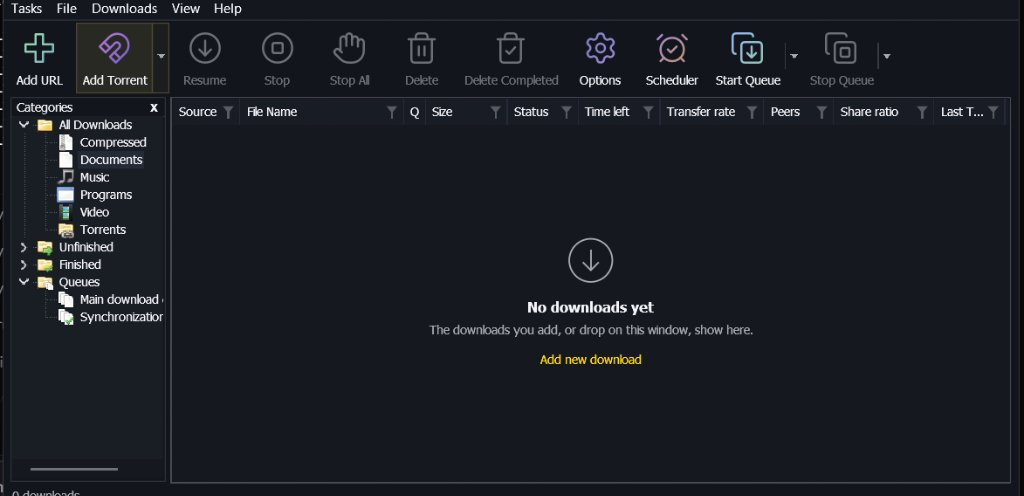
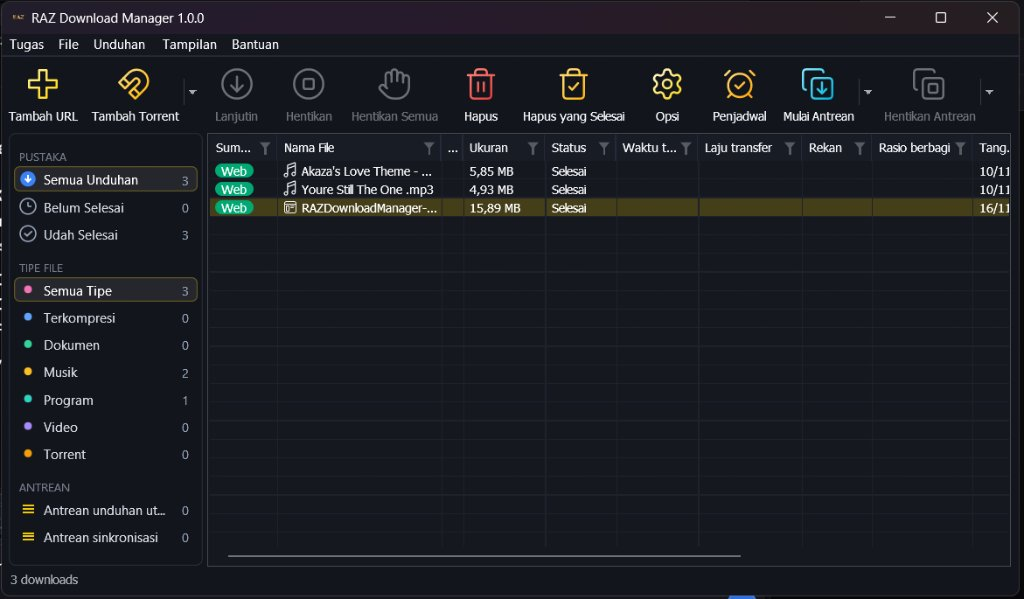
docs: integrate official v1.0.0 app screenshots into README and website tour

diff --git a/website/js/RAZMainLang.js b/website/js/RAZMainLang.js
@@ -72,16 +72,18 @@ const RAZMainLang = {
             'tour-title-1': 'Desain Klasik yang Lo Kenal,',
             'tour-title-2': 'Engine Modern yang Jauh Lebih Kencang',
             'tour-desc': 'Layout praktis dan familiar seperti download manager yang lo pake selama bertahun-tahun, tapi dengan teknologi modern dan fitur yang belum pernah ada sebelumnya.',
+            'tour-tab-main-title': 'Layar Utama Modern',
+            'tour-tab-main-desc': 'Daftar donlotan bersih, kategorisasi otomatis (Dokumen, Video, Program, Musik), dan toolbar emas responsif.',
             'tour-tab-progress-title': 'Setiap Koneksi Terpantau Live',
             'tour-tab-progress-desc': 'Pantau kecepatan dan bagian file yang terisi secara real-time. Resume aman dari crash tanpa takut file rusak.',
+            'tour-tab-completed-title': 'Dialog Donlotan Selesai',
+            'tour-tab-completed-desc': 'Notifikasi instan dengan opsi langsung buka file, buka folder tujuan, atau buka dengan aplikasi pilihan.',
+            'tour-tab-options-title': 'Konfigurasi & Opsi Lengkap',
+            'tour-tab-options-desc': 'Integrasi peramban otomatis, manajemen koneksi, proxy, hingga opsi perilaku sistem semau lo.',
             'tour-tab-torrents-title': 'BitTorrent Terintegrasi',
             'tour-tab-torrents-desc': 'Buka magnet link dan file .torrent langsung di daftar download tanpa butuh software torrent terpisah.',
             'tour-tab-video-title': 'Sniffer Video Web',
             'tour-tab-video-desc': 'Download video sampai kualitas 4K dari YouTube, Vimeo, dan ribuan situs streaming lainnya.',
-            'tour-tab-scheduler-title': 'Jadwal Antrean Otomatis',
-            'tour-tab-scheduler-desc': 'Atur antrean download mulai jam 2 pagi, berhenti jam 6 pagi, dan otomatis matikan komputer setelah selesai.',
-            'tour-tab-options-title': 'Pengaturan Lengkap',
-            'tour-tab-options-desc': 'Atur koneksi per donlotan, proxy, suara, folder tujuan, hingga integrasi browser semau lo.',
 
             // Core Features
             'feat-label': 'Fitur Unggulan',
@@ -254,16 +256,18 @@ const RAZMainLang = {
             'tour-title-1': 'The Classic Layout You Know,',
             'tour-title-2': 'A Modern Engine That Flies',
             'tour-desc': 'The familiar layout you have trusted for years, rebuilt with cutting-edge engineering and modern capabilities.',
+            'tour-tab-main-title': 'Sleek Main Dashboard',
+            'tour-tab-main-desc': 'Clean download manager list with automatic categorization (Documents, Videos, Programs, Music) and responsive toolbar.',
             'tour-tab-progress-title': 'Every Connection Drawn Live',
             'tour-tab-progress-desc': 'Watch each connection fill in real time with live speed indicators. Crash-safe resume prevents file corruption.',
+            'tour-tab-completed-title': 'Download Completed Dialog',
+            'tour-tab-completed-desc': 'Instant completion dialog with direct actions to open the file, open destination folder, or choose app.',
+            'tour-tab-options-title': 'Preferences & Settings',
+            'tour-tab-options-desc': 'Automatic browser integration, network connection tuning, proxies, and system behaviors semau lo.',
             'tour-tab-torrents-title': 'Built-in BitTorrent Client',
             'tour-tab-torrents-desc': 'Open magnet links and .torrent files directly without needing a separate torrent client.',
             'tour-tab-video-title': 'Web Video Sniffer',
             'tour-tab-video-desc': 'Grab up to 4K video from YouTube, Vimeo, and thousands of streaming websites.',
-            'tour-tab-scheduler-title': 'Smart Queue Scheduler',
-            'tour-tab-scheduler-desc': 'Automate downloads to start overnight at 2 AM, stop at 6 AM, and turn off your computer.',
-            'tour-tab-options-title': 'Full Control & Preferences',
-            'tour-tab-options-desc': 'Configure connections per download, network proxies, sounds, destination folders, and browser integration.',
 
             // Core Features
             'feat-label': 'Core Features',

diff --git a/website/index.html b/website/index.html
@@ -311,9 +311,21 @@
 
             <div class="app-tour-grid">
                 <div class="tour-tab-list">
-                    <div class="tour-tab-item active" data-img="assets/screens/progress-dark.webp">
+                    <div class="tour-tab-item active" data-img="assets/screens/main-dark.webp">
+                        <h4 data-lang-key="tour-tab-main-title">Layar Utama Modern</h4>
+                        <p data-lang-key="tour-tab-main-desc">Daftar donlotan bersih, kategorisasi otomatis (Dokumen, Video, Program, Musik), dan toolbar emas responsif.</p>
+                    </div>
+                    <div class="tour-tab-item" data-img="assets/screens/progress-dark.webp">
                         <h4 data-lang-key="tour-tab-progress-title">Setiap Koneksi Terpantau Live</h4>
                         <p data-lang-key="tour-tab-progress-desc">Pantau kecepatan dan bagian file yang terisi secara real-time. Resume aman dari crash tanpa takut file rusak.</p>
+                    </div>
+                    <div class="tour-tab-item" data-img="assets/screens/completed-dark.webp">
+                        <h4 data-lang-key="tour-tab-completed-title">Dialog Donlotan Selesai</h4>
+                        <p data-lang-key="tour-tab-completed-desc">Notifikasi instan dengan opsi langsung buka file, buka folder tujuan, atau buka dengan aplikasi pilihan.</p>
+                    </div>
+                    <div class="tour-tab-item" data-img="assets/screens/options-dark.webp">
+                        <h4 data-lang-key="tour-tab-options-title">Konfigurasi & Opsi Lengkap</h4>
+                        <p data-lang-key="tour-tab-options-desc">Integrasi peramban otomatis, manajemen koneksi, proxy, hingga opsi perilaku sistem semau lo.</p>
                     </div>
                     <div class="tour-tab-item" data-img="assets/screens/torrent-dark.webp">
                         <h4 data-lang-key="tour-tab-torrents-title">BitTorrent Terintegrasi</h4>
@@ -323,22 +335,10 @@
                         <h4 data-lang-key="tour-tab-video-title">Sniffer Video Web</h4>
                         <p data-lang-key="tour-tab-video-desc">Download video sampai kualitas 4K dari YouTube, Vimeo, dan ribuan situs streaming lainnya.</p>
                     </div>
-                    <div class="tour-tab-item" data-img="assets/screens/scheduler-dark.webp">
-                        <h4 data-lang-key="tour-tab-scheduler-title">Jadwal Antrean Otomatis</h4>
-                        <p data-lang-key="tour-tab-scheduler-desc">Atur antrean download mulai jam 2 pagi, berhenti jam 6 pagi, dan otomatis matikan komputer setelah selesai.</p>
-                    </div>
-                    <div class="tour-tab-item" data-img="assets/screens/options-dark.webp">
-                        <h4 data-lang-key="tour-tab-options-title">Pengaturan Lengkap</h4>
-                        <p data-lang-key="tour-tab-options-desc">Atur koneksi per donlotan, proxy, suara, folder tujuan, hingga integrasi browser semau lo.</p>
-                    </div>
-                    <div class="tour-tab-item" data-img="assets/screens/main-dark.webp">
-                        <h4>Layar Utama Modern</h4>
-                        <p>Daftar donlotan bersih, kategorisasi otomatis (Dokumen, Video, Program, Musik), dan pencarian instan.</p>
-                    </div>
                 </div>
 
                 <div class="tour-viewport">
-                    <img id="tour-preview-img" src="assets/screens/progress-dark.webp" alt="Tampilan Antarmuka RAZ Download Manager"
+                    <img id="tour-preview-img" src="assets/screens/main-dark.webp" alt="Tampilan Antarmuka RAZ Download Manager"
                         loading="lazy">
                 </div>
             </div>

diff --git a/README.md b/README.md
@@ -108,6 +108,22 @@ Tampilan akrab yang udah biasa lo pake di IDM, tapi performanya jauh lebih ngaci
 
 ---
 
+## 📸 Tangkapan Layar & Antarmuka (Preview)
+
+Berikut tampilan antarmuka resmi RAZ Download Manager v1.0.0 dengan sentuhan tema obsidian elegan khas RAZ Creative Studio:
+
+| 🖥 Tampilan Layar Utama | ⚡ Proses & Segmen Donlot Multi-Thread |
+| :---: | :---: |
+| <img src="docs/images/main-raz.png" alt="Layar Utama RAZ Download Manager" width="460"> | <img src="docs/images/downloading.png" alt="Dialog Proses Donlot Multi-Thread" width="460"> |
+| *Daftar donlotan, toolbar emas, dan sidepanel rapi* | *Pemantauan segmen byte live, kecepatan, dan sisa waktu* |
+
+| ✅ Dialog Donlotan Selesai | ⚙ Konfigurasi & Pengaturan Lengkap |
+| :---: | :---: |
+| <img src="docs/images/completed.png" alt="Dialog Donlotan Selesai" width="460"> | <img src="docs/images/settings.png" alt="Konfigurasi RAZ Download Manager" width="460"> |
+| *Aksi cepat buka file, buka folder, dan setel aplikasi* | *Pengaturan integrasi peramban, koneksi, dan proksi* |
+
+---
+
 ## 📥 Pilihan Donlot & Instalasi
 
 Kunjungi halaman [Donlot Resmi](https://dm.it-raz.com/download.html) atau ambil langsung di [GitHub Releases](https://github.com/razcreativestudio/razdownloadmanager/releases/latest):
@@ -117,7 +133,8 @@ Kunjungi halaman [Donlot Resmi](https://dm.it-raz.com/download.html) atau ambil 
 | **`RAZDownloadManager-...-setup.exe`** | **Paling Direkomendasikan!** Sekali klik buat instal RAZ DM di Windows, langsung daftarin ekstensi browser, dan setel bahasa. |
 | **`RAZDownloadManager-...-portable.zip`** | Versi tanpa instalasi. Cocok ditaruh di flashdisk USB, ekstrak dan langsung jalan. Data kesimpan rapi di foldernya. |
 | **`RAZDownloadManager-...-x64.zip`** | Berkas biner mandiri buat yang mau integrasi manual tanpa installer. |
-| **`razdm-extension-chrome.zip`** | Berkas ekstensi langsung buat browser Chromium (Chrome, Edge, Brave, Opera). |
+| **`razdm-extension-chrome.crx`** | Berkas biner ekstensi `.crx` resmi buat browser Chromium (drag-and-drop di developer mode). |
+| **`razdm-extension-chrome.zip`** | Berkas ekstensi source `.zip` buat browser Chromium (metode *Load unpacked* resmi). |
 | **`razdm-extension-firefox.xpi`** | Berkas ekstensi resmi langsung buat browser Firefox dan turunannya. |
 
 > [!NOTE]

diff --git a/RAZUpdateHistory.md b/RAZUpdateHistory.md
@@ -3,6 +3,32 @@ Dokumentasi riwayat pembaruan dan perubahan harian proyek RAZ Download Manager.
 
 ---
 
+## [2026-11-16] — Integrasi Tangkapan Layar Resmi v1.0.0 ke Website Tour & README.md
+*Waktu: 16 November 2026 12:30 WIB*
+
+### Aktivitas & Pembaruan:
+1. **Konversi & Integrasi Tangkapan Layar Resmi v1.0.0**:
+   - Memproses dan mengoptimasi 4 screenshot asli RAZ Download Manager v1.0.0 ke format PNG beresolusi tinggi dan WebP terkompresi:
+     - **Tampilan Utama**: `docs/images/main-raz.png` & `website/assets/screens/main-dark.webp`
+     - **Proses Donlot Live (Multi-Thread Segment)**: `docs/images/downloading.png` & `website/assets/screens/progress-dark.webp`
+     - **Dialog Donlotan Selesai**: `docs/images/completed.png` & `website/assets/screens/completed-dark.webp`
+     - **Konfigurasi & Pengaturan Lengkap**: `docs/images/settings.png` & `website/assets/screens/options-dark.webp`
+
+2. **Pembaruan Galeri Pratinjau di `README.md`**:
+   - Menambahkan seksi khusus `## 📸 Tangkapan Layar & Antarmuka (Preview)` di `README.md` dengan tabel galeri 2x2 yang menampilkan keempat tangkapan layar utama secara rapi dan profesional.
+   - Memperbarui tabel paket donlot di `README.md` dengan menyertakan opsi paket ekstensi `razdm-extension-chrome.crx`.
+
+3. **Pembaruan Tur Antarmuka di `website/index.html`**:
+   - Menghubungkan 4 tab pratinjau antarmuka di bagian Product Tour secara langsung ke tangkapan layar baru:
+     - Tab 1: **Layar Utama Modern** (default active)
+     - Tab 2: **Setiap Koneksi Terpantau Live** (proses donlot segmen)
+     - Tab 3: **Dialog Donlotan Selesai** (dialog aksi selesai)
+     - Tab 4: **Konfigurasi & Opsi Lengkap** (dialog pengaturan sistem)
+     - Tab 5 & 6: **BitTorrent & Sniffer Video Web**
+   - Menambahkan dukungan lokalisasi teks tab tur di `website/js/RAZMainLang.js` (Bahasa Indo Oke & English).
+
+---
+
 ## [2026-11-16] — Fix Layout Komparasi Tabel, 3-Kolom Grid Fitur, Card Donlot CRX & Cache-Busting CSS
 *Waktu: 16 November 2026 11:45 WIB*
 
